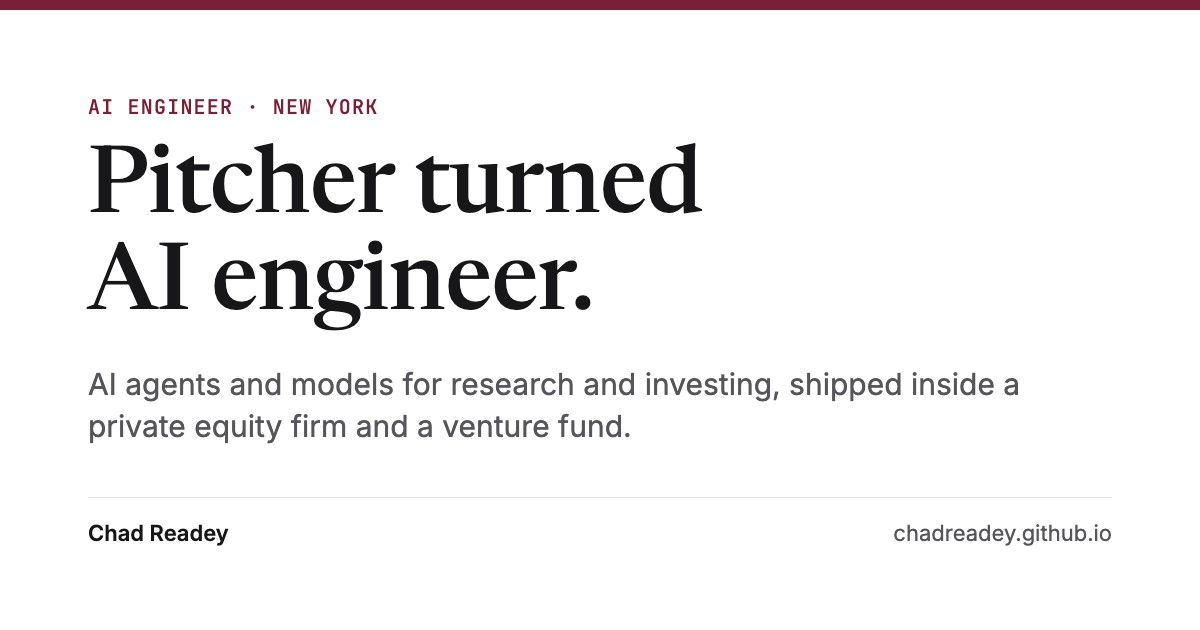
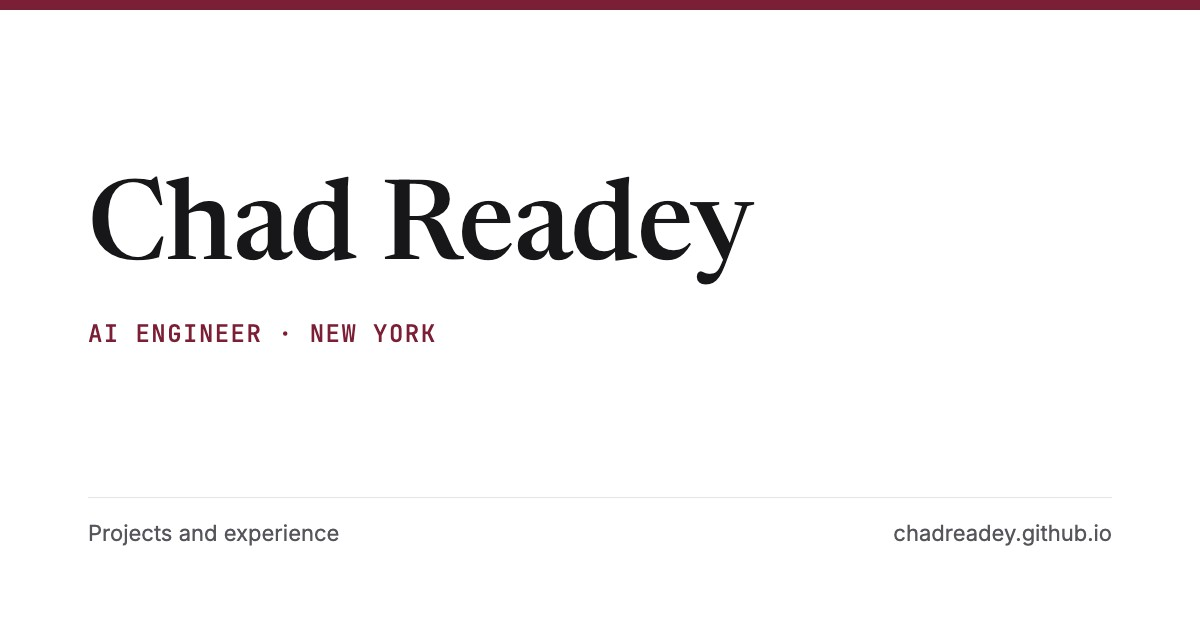
Plain copy: drop the taglines and buzzwords
Hero is now the name plus one factual line. Removed "Pitcher turned AI
engineer", "shipped inside a private equity firm and a venture fund",
"swarm of agents", "partly revenge", and the sales-pitch contact header.
"Inside funds" is now "Experience". Link-preview image matches.

diff --git a/index.html b/index.html
@@ -3,13 +3,13 @@
 <head>
   <meta charset="utf-8">
   <meta name="viewport" content="width=device-width, initial-scale=1">
-  <title>Chad Readey · AI Engineer</title>
-  <meta name="description" content="Chad Readey, pitcher turned AI engineer. AI agents and models for research and investing, shipped inside a private equity firm and a venture fund, plus an evidence-gap mapper, an NBA next-season forecast and an MLB strike-zone model.">
+  <title>Chad Readey</title>
+  <meta name="description" content="Chad Readey, AI engineer in New York. Projects include an evidence gap mapper, an NBA next-season forecast and an MLB strike-zone model.">
   <link rel="canonical" href="https://chadreadey.github.io/">
   <meta property="og:type" content="website">
   <meta property="og:url" content="https://chadreadey.github.io/">
-  <meta property="og:title" content="Chad Readey · Pitcher turned AI engineer">
-  <meta property="og:description" content="AI agents and models for research and investing, shipped inside a private equity firm and a venture fund.">
+  <meta property="og:title" content="Chad Readey">
+  <meta property="og:description" content="AI engineer in New York. Projects and experience.">
   <meta property="og:image" content="https://chadreadey.github.io/media/og.jpg">
   <meta property="og:image:width" content="1200">
   <meta property="og:image:height" content="630">
@@ -133,7 +133,7 @@
     <a class="brand" href="#top">Chad Readey</a>
     <ul>
       <li><a href="#work">Work</a></li>
-      <li><a href="#funds">Funds</a></li>
+      <li><a href="#funds">Experience</a></li>
       <li><a href="#about">About</a></li>
       <li><a href="#contact">Contact</a></li>
     </ul>
@@ -141,8 +141,8 @@
   <div class="hero" id="main" tabindex="-1">
     <div>
       <p class="label">AI engineer · New York</p>
-      <h1>Pitcher turned AI engineer.</h1>
-      <p class="sub">I build AI agents and models for research and investing, shipped inside a private equity firm and a venture fund.</p>
+      <h1>Chad Readey</h1>
+      <p class="sub">I build AI agents and machine learning models.</p>
       <div class="actions">
         <a class="btn primary" href="#work">See the work</a>
         <a class="btn" href="#contact">Get in touch</a>
@@ -256,13 +256,13 @@
 
 <section id="funds">
   <div class="wrap">
-    <div class="sec-head"><h2>Inside funds</h2></div>
+    <div class="sec-head"><h2>Experience</h2></div>
     <div class="funds">
       <article class="fund">
         <h3>The Vistria Group</h3>
         <p class="meta">Private equity · Data/AI intern, then consultant · 2026</p>
         <ul>
-          <li><b>Signal research system.</b> Give it an investment sleeve and a topic. A swarm of agents works out the main theses, then traces which headwinds and tailwinds causally drive each one, and why, across macro, micro and market-structure lenses.</li>
+          <li><b>Signal research system.</b> Give it an investment sleeve and a topic. A set of agents identifies the main theses, then traces which headwinds and tailwinds drive each one across macro, micro and market-structure factors.</li>
           <li><b>CRM agent.</b> Natural-language access to banker contacts, relevant CIMs, past financials and deal history; the IR team uses it to prep for fundraising conversations. Model output is validated, turned into parameterized queries, and permission-checked before it touches sensitive data.</li>
         </ul>
       </article>
@@ -283,8 +283,8 @@
     <img src="media/pitch.jpg" width="800" height="986" loading="lazy" alt="Chad Readey pitching for Northwestern at night, mid follow-through, in a black uniform.">
     <div>
       <h2>About</h2>
-      <p>I pitched at Northwestern and made the Big Ten All-Academic team in 2023, 2024 and 2025. The strike-zone model above is partly revenge.</p>
-      <p>I have a B.A. in Data Science from Northwestern and am finishing an M.S. in Management Science &amp; Engineering at Columbia. I'd rather build the system that does the analysis than do it by hand.</p>
+      <p>I pitched at Northwestern and made the Big Ten All-Academic team in 2023, 2024 and 2025.</p>
+      <p>I have a B.A. in Data Science from Northwestern and am finishing an M.S. in Management Science &amp; Engineering at Columbia.</p>
     </div>
   </div>
 </section>
@@ -304,8 +304,8 @@
 
 <footer class="contact" id="contact">
   <div class="wrap">
-    <h2>Hiring for AI, product, forward-deployed, or ML engineering?</h2>
-    <p class="lead">I'd like to hear about it. Based in New York.</p>
+    <h2>Contact</h2>
+    <p class="lead">Based in New York. Email is the best way to reach me.</p>
     <div class="actions">
       <a class="btn primary" href="mailto:chadreadey@gmail.com">chadreadey@gmail.com</a>
       <a class="btn" href="media/Chad_Readey_Resume.pdf">Résumé</a>
